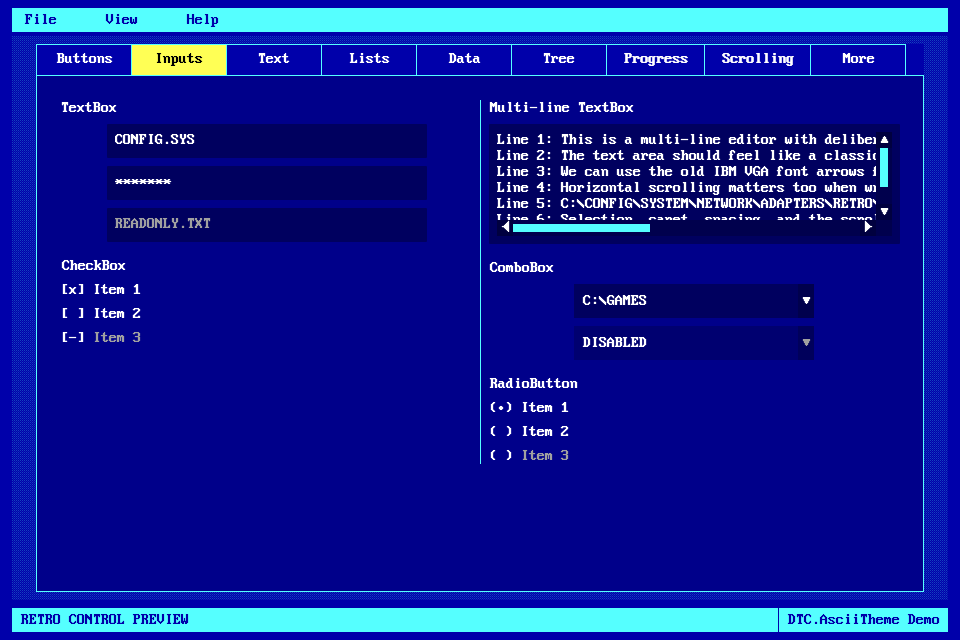
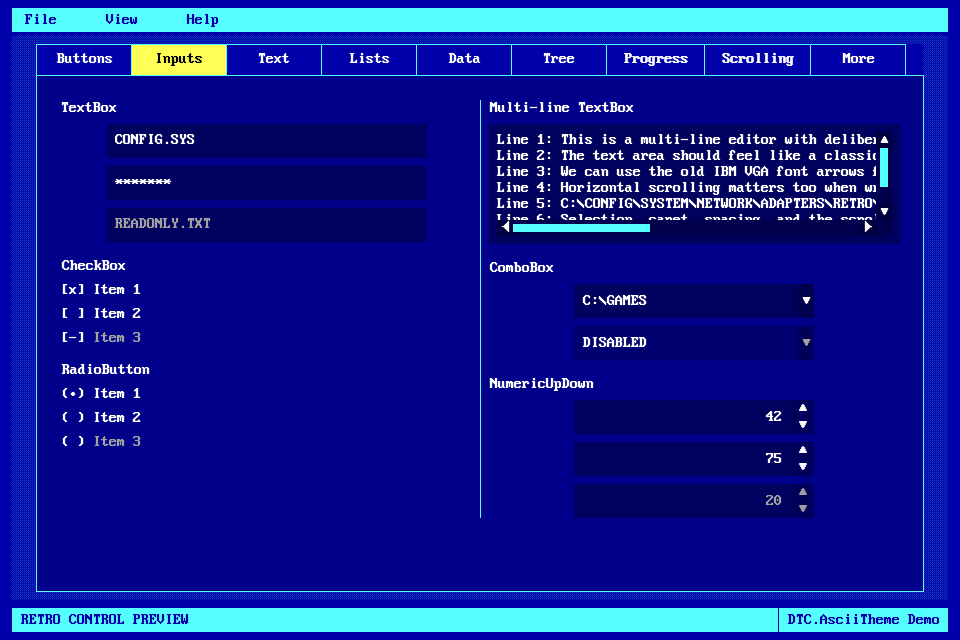
Feature: Add retro NumericUpDown styling.

Changed region(s): [[0.5, 0.5938, 0.875, 0.8125], [0.0625, 0.5625, 0.1562, 0.7188]]

diff --git a/README.md b/README.md
@@ -16,7 +16,7 @@ Demonstrates `Button` and `ToggleButton`, including hover, focus, disabled, and 
 ![Buttons tab screenshot](img/buttons.png)
 
 ### Inputs
-Demonstrates single-line `TextBox`, password entry, a multiline editor with themed scrollbars, `ComboBox`, `CheckBox`, and `RadioButton`.
+Demonstrates single-line `TextBox`, password entry, a multiline editor with themed scrollbars, `ComboBox`, `NumericUpDown`, `CheckBox`, and `RadioButton`.
 
 ![Inputs tab screenshot](img/inputs.png)
 
@@ -52,7 +52,7 @@ Demonstrates shared `ScrollViewer`/`ScrollBar` styling with a dithered retro ima
 ![ScrollViewer tab screenshot](img/scrollviewer.png)
 
 ### More
-Demonstrates `AsciiMessageBox`, `Expander`, `Slider`, `ToolTip`, and the footer `AsciiStatusBar`. The demo app itself now uses the themed `Menu` at the top level for `File`, `View`, and `Help`.
+Demonstrates `AsciiMessageBox`, `Expander`, `Slider`, `GridSplitter`, `ToolTip`, and the footer `AsciiStatusBar`. The demo app itself now uses the themed `Menu` at the top level for `File`, `View`, and `Help`.
 
 ![More tab screenshot](img/more.png)
 
@@ -63,9 +63,11 @@ Demonstrates `AsciiMessageBox`, `Expander`, `Slider`, `ToolTip`, and the footer 
 - `ComboBox`
 - `DataGrid`
 - `Expander`
+- `GridSplitter`
 - `Label`
 - `ListBox`
 - `Menu`
+- `NumericUpDown`
 - `ProgressBar`
 - `RadioButton`
 - `ScrollBar`
